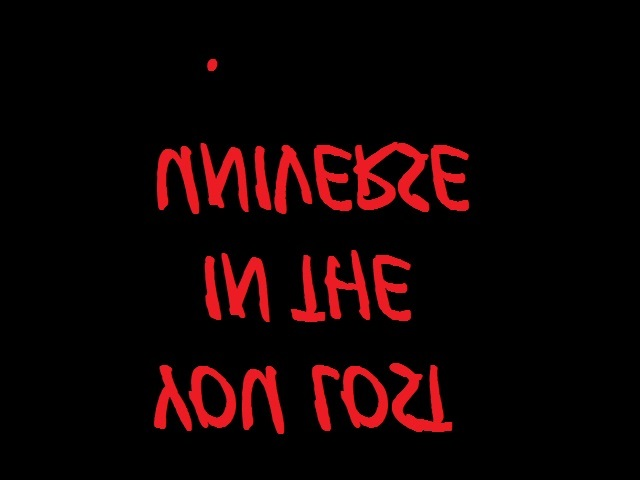
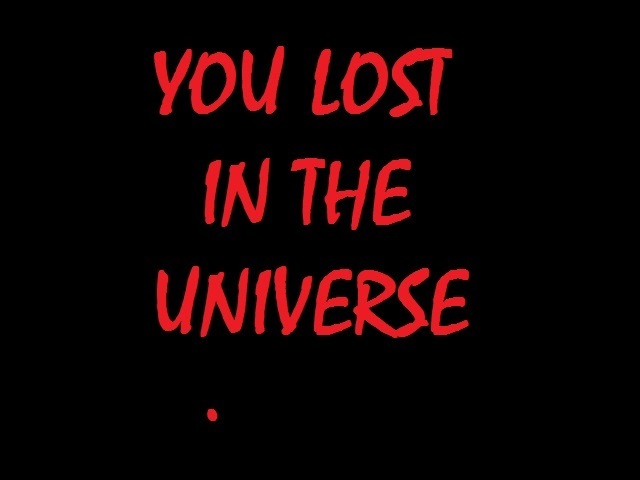
Ending second

Changed region(s): [[0.2188, 0.2812, 0.75, 0.7188], [0.2188, 0.0938, 0.7188, 0.25], [0.2188, 0.75, 0.7188, 0.9062]]

diff --git a/src/image/image.cpp b/src/image/image.cpp
@@ -7,10 +7,10 @@ void Image::load(const char *texture) {
     /* Initialize shader */
     float vertices[] = {
         // position           // color            // texture coordinate
-         1.0f,  1.0f, 0.0f,   1.0f, 1.0f, 1.0f,   1.0f, 1.0f, // top right
-         1.0f, -1.0f, 0.0f,   1.0f, 1.0f, 1.0f,   1.0f, 0.0f, // bottom right
-        -1.0f, -1.0f, 0.0f,   1.0f, 1.0f, 1.0f,   0.0f, 0.0f, // bottom left
-        -1.0f,  1.0f, 0.0f,   1.0f, 1.0f, 1.0f,   0.0f, 1.0f  // top left
+         1.0f,  1.0f, 0.0f,   1.0f, 1.0f, 1.0f,   1.0f, 0.0f, // top right
+         1.0f, -1.0f, 0.0f,   1.0f, 1.0f, 1.0f,   1.0f, 1.0f, // bottom right
+        -1.0f, -1.0f, 0.0f,   1.0f, 1.0f, 1.0f,   0.0f, 1.0f, // bottom left
+        -1.0f,  1.0f, 0.0f,   1.0f, 1.0f, 1.0f,   0.0f, 0.0f  // top left
     };
     unsigned int indices[] = {
         0, 1, 3,
